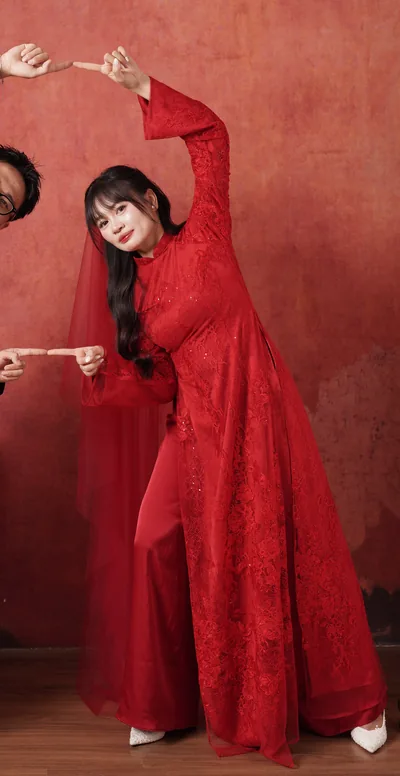
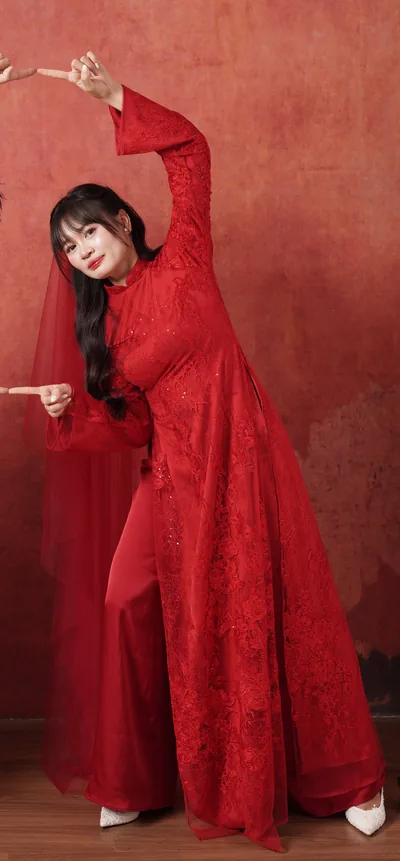
Puzzle with two opposite tabs: one between the raised hands and heads, one low
Tabs are now a list (puzzle.tabs) with their own height, direction and
size; the straight cut stays where the raised fingertips meet.

diff --git a/src/main.js b/src/main.js
@@ -153,23 +153,24 @@ function initHero() {
 /* ---------- Gallery + Puzzle ---------- */
 
 // Tai ghép nằm giữa mép mảnh. Mảnh càng cao (ratio = cao/rộng) thì tai càng ngắn theo tỉ lệ để không bị kéo dài.
-// Mảnh trái rộng gấp `left` lần mảnh phải, nên tai ghép tính lại theo bề ngang của nó.
-// Mảnh trái rộng gấp `left` lần mảnh phải; hai mảnh chồng nhau 0.18 bề ngang mảnh phải.
-// tab = 'right': mảnh trái có tai lồi sang phải. tab = 'left': mảnh phải có tai lồi sang trái.
-function puzzleClips(ratio, left = 1, tab = 'right', tabY = 0.5) {
+// Toạ độ "bảng" tính theo bề ngang mảnh phải: mảnh trái nằm ở [0, left], mảnh phải ở [offset, offset + 1],
+// đường cắt thẳng ở x = cut. Mỗi tai ghép { y, dir, size }: y = vị trí theo chiều cao mảnh (0..1),
+// dir = 'left' (mảnh phải lồi sang trái) hoặc 'right' (mảnh trái lồi sang phải), size = cỡ (1 = tai to cũ).
+function puzzleClips({ ratio, left, offset, cut, tabs }) {
   const k = 1 / ratio;
-  const y = v => (tabY + (v - 0.5) * k).toFixed(4); // tai ghép đặt ở tabY (tỉ lệ chiều cao mảnh)
-  const x = v => (1 - (1 - v) / left).toFixed(4); // toạ độ trong dải chồng nhau → toạ độ mảnh trái
-  const [slot, piece] =
-    tab === 'left'
-      ? [
-          `M0,0 H1 V${y(0.35)} C${x(0.92)},${y(0.27)} ${x(0.82)},${y(0.37)} ${x(0.82)},${y(0.5)} C${x(0.82)},${y(0.63)} ${x(0.92)},${y(0.73)} 1,${y(0.65)} V1 H0 Z`,
-          `M0.18,0 H1 V1 H0.18 V${y(0.65)} C0.1,${y(0.73)} 0,${y(0.63)} 0,${y(0.5)} C0,${y(0.37)} 0.1,${y(0.27)} 0.18,${y(0.35)} Z`,
-        ]
-      : [
-          `M0,0 H${x(0.82)} V${y(0.35)} C${x(0.9)},${y(0.27)} 1,${y(0.37)} 1,${y(0.5)} C1,${y(0.63)} ${x(0.9)},${y(0.73)} ${x(0.82)},${y(0.65)} V1 H0 Z`,
-          `M0,0 H1 V1 H0 V${y(0.65)} C0.08,${y(0.73)} 0.18,${y(0.63)} 0.18,${y(0.5)} C0.18,${y(0.37)} 0.08,${y(0.27)} 0,${y(0.35)} Z`,
-        ];
+  const f = n => n.toFixed(4);
+  const seam = mapX => {
+    let d = `M${f(mapX(cut))},0`;
+    for (const t of [...tabs].sort((a, b) => a.y - b.y)) {
+      const s = (t.dir === 'right' ? 1 : -1) * t.size;
+      const X = dx => f(mapX(cut + s * dx));
+      const Y = dy => f(t.y + dy * t.size * k);
+      d += ` L${X(0)},${Y(-0.15)} C${X(0.08)},${Y(-0.23)} ${X(0.18)},${Y(-0.13)} ${X(0.18)},${Y(0)} C${X(0.18)},${Y(0.13)} ${X(0.08)},${Y(0.23)} ${X(0)},${Y(0.15)}`;
+    }
+    return `${d} L${f(mapX(cut))},1`;
+  };
+  const slot = `${seam(x => x / left)} L0,1 L0,0 Z`;
+  const piece = `${seam(x => x - offset)} L1,1 L1,0 Z`;
   return `<clipPath id="pz-slot" clipPathUnits="objectBoundingBox"><path d="${slot}"/></clipPath>
         <clipPath id="pz-piece" clipPathUnits="objectBoundingBox"><path d="${piece}"/></clipPath>`;
 }
@@ -185,13 +186,13 @@ function galleryHtml() {
       </figure>`,
     )
     .join('');
-  const puzzle = `<div class="puzzle__wrap" style="--pr:${p.ratio};--pl:${p.left ?? 1}">
+  const puzzle = `<div class="puzzle__wrap" style="--pr:${p.ratio};--pl:${p.left};--po:${p.offset}">
       <p class="puzzle__title">${esc(p.title)}</p>
       <svg class="puzzle__defs" aria-hidden="true"><defs>
-        ${puzzleClips(p.ratio, p.left, p.tab, p.tabY)}
+        ${puzzleClips(p)}
       </defs></svg>
       <div class="puzzle__board">
-        <figure class="puzzle__slot" style="clip-path:url(#pz-slot)"><img src="${url(p.pieces[0].src)}" alt="${esc(p.pieces[0].alt)}" width="${Math.round(400 * (p.left ?? 1))}" height="${Math.round(400 * p.ratio)}" draggable="false"></figure>
+        <figure class="puzzle__slot" style="clip-path:url(#pz-slot)"><img src="${url(p.pieces[0].src)}" alt="${esc(p.pieces[0].alt)}" width="${Math.round(400 * p.left)}" height="${Math.round(400 * p.ratio)}" draggable="false"></figure>
         <div class="puzzle__piece" style="clip-path:url(#pz-piece);--fx:0.52;--fy:${(0.2 / p.ratio).toFixed(3)}" role="button" tabindex="0" aria-disabled="false"
           aria-label="${esc(p.pieces[1].alt)} — kéo hoặc dùng phím mũi tên để ghép vào mảnh bên trái"><img src="${url(p.pieces[1].src)}" alt="${esc(p.pieces[1].alt)}" width="400" height="${Math.round(400 * p.ratio)}" draggable="false"></div>
       </div>

diff --git a/src/config.js b/src/config.js
@@ -50,14 +50,18 @@ export const puzzle = {
   prompt: 'Kéo mảnh bên phải cho khớp vào mảnh bên trái',
   done: 'Khớp rồi! Thông tin lễ cưới mở ngay bên dưới nha.',
   locked: 'Ghép hai mảnh ảnh phía trên để mở phần này nha',
-  // Một tấm ảnh cắt đôi ở giữa hai người (scripts/prepare-photos.py in ra ba giá trị này).
-  // tab = mảnh phải có tai lồi sang trái ('left') hay mảnh trái có tai lồi sang phải ('right'),
-  // ratio = cao/rộng của mảnh phải, left = bề ngang mảnh trái so với mảnh phải.
-  tab: 'left',
-  ratio: 1.939,
-  left: 0.942,
-  // Vị trí tai ghép theo chiều cao mảnh (0 = trên cùng, 1 = dưới cùng): đặt ở khoảng nền trống giữa hai người.
-  tabY: 0.6,
+  // Một tấm ảnh cắt đôi ở giữa hai người. scripts/prepare-photos.py in ra ratio, left, offset, cut
+  // (tính theo bề ngang mảnh phải: chiều cao, bề ngang mảnh trái, mép trái mảnh phải, vị trí đường cắt).
+  ratio: 2.152,
+  left: 1.136,
+  offset: 0.956,
+  cut: 1.046,
+  // Tai ghép: y = vị trí theo chiều cao mảnh (0 = trên cùng, 1 = dưới cùng), dir = hướng lồi,
+  // size = cỡ (0.18 × size phải ≤ TAB_DEPTH trong scripts/prepare-photos.py).
+  tabs: [
+    { y: 0.164, dir: 'right', size: 0.5 }, // giữa tay trên cao và đầu hai người
+    { y: 0.74, dir: 'left', size: 0.5 }, // nền trống phía dưới, giữa áo chú rể và voan cô dâu
+  ],
   pieces: [
     { src: 'photos/puzzle-left.webp', alt: 'Chú rể' },
     { src: 'photos/puzzle-right.webp', alt: 'Cô dâu' },

diff --git a/src/style.css b/src/style.css
@@ -1716,6 +1716,7 @@ a {
 .puzzle__wrap {
   --pr: 1;
   --pl: 1; /* bề ngang mảnh trái so với mảnh phải */
+  --po: 0.82; /* mép trái mảnh phải khi ghép xong */
   /* --pr: cao/rộng của mỗi mảnh (puzzle.ratio). Mảnh dọc thì thu hẹp lại để không quá cao. */
   --pw: calc(clamp(112px, 34vw, 240px) * min(1, 1.6 / var(--pr)));
   align-items: center;
@@ -1735,7 +1736,7 @@ a {
   position: absolute;
 }
 .puzzle__board {
-  width: calc(var(--pw) * (var(--pl) + 1 - 0.18 + 0.52));
+  width: calc(var(--pw) * (var(--po) + 1 + 0.52));
   height: calc(var(--pw) * (var(--pr) * 1.12 + 0.12));
   position: relative;
 }
@@ -1763,7 +1764,7 @@ a {
   aspect-ratio: var(--pl) / var(--pr);
 }
 .puzzle__piece {
-  left: calc(var(--pw) * (var(--pl) - 0.18));
+  left: calc(var(--pw) * var(--po));
   translate: calc(var(--fx, 0) * 100%) calc(var(--fy, 0) * 100%);
   cursor: grab;
   touch-action: none;

diff --git a/scripts/prepare-photos.py b/scripts/prepare-photos.py
@@ -47,32 +47,25 @@ STICKERS = []
 
 # Trò ghép hình: một tấm ảnh chụp hai người, cắt đôi ở chỗ giữa hai người.
 # (nguồn, vị trí đường cắt 0..1, mép trái, mép phải, mép trên, mép dưới — đều tính theo tỉ lệ ảnh)
-# Mảnh trái cố định, mảnh phải kéo vào. Tai ghép rộng 0.18 bề ngang mảnh phải.
-# Hai mảnh có thể rộng khác nhau để đường cắt nằm đúng chỗ mình muốn mà không phải cắt bớt người bên trái.
-# Chạy xong, chép ba giá trị tab, ratio và left in ra vào puzzle trong src/config.js.
+# Mảnh trái cố định, mảnh phải kéo vào. Tai ghép (khai báo ở puzzle.tabs trong src/config.js) lồi sang trái
+# hoặc phải tối đa TAB_DEPTH bề ngang mảnh phải, nên mỗi mảnh lấy dư ra phía đường cắt đúng chừng đó.
+# Chạy xong, chép các số ratio, left, offset, cut in ra vào puzzle trong src/config.js.
 PUZZLE = ('anh-1.JPG', 0.532, 0.0, 0.995, 0.21, 0.94)
 PUZZLE_W = 400  # bề ngang mảnh phải (px)
-# Tai ghép nằm ở mảnh nào: 'left' = mảnh phải có tai lồi sang trái, 'right' = mảnh trái có tai lồi sang phải.
-# Đường cắt thẳng luôn ở vị trí `cut`, tai ghép lấn sang phía bên kia.
-PUZZLE_TAB = 'left'
+TAB_DEPTH = 0.09  # = 0.18 × size lớn nhất của các tai ghép
 
 
 def puzzle_pieces(img, cut, left, right, top, bottom):
     x_cut, x0, x1 = cut * img.width, left * img.width, right * img.width
     y0, y1 = top * img.height, bottom * img.height
-    if PUZZLE_TAB == 'right':  # tai ở mảnh trái, lồi sang phải
-        w = x1 - x_cut  # mảnh phải
-        wl = x_cut + 0.18 * w - x0  # mảnh trái, gồm cả tai ghép
-        rx0 = x_cut
-    else:  # tai ở mảnh phải, lồi sang trái
-        w = (x1 - x_cut) / 0.82  # mảnh phải, gồm cả tai ghép
-        wl = x_cut - x0
-        rx0 = x_cut - 0.18 * w
-    ratio, lw = (y1 - y0) / w, wl / w
+    w = (x1 - x_cut) / (1 - TAB_DEPTH)  # mảnh phải, gồm phần dư cho tai ghép lồi sang trái
+    d = TAB_DEPTH * w
+    lx1, rx0 = x_cut + d, x_cut - d
+    ratio, lw, off, c = (y1 - y0) / w, (lx1 - x0) / w, (rx0 - x0) / w, (x_cut - x0) / w
     h = round(PUZZLE_W * ratio)
-    a = img.crop((round(x0), round(y0), round(x0 + wl), round(y1))).resize((round(PUZZLE_W * lw), h), Image.LANCZOS)
+    a = img.crop((round(x0), round(y0), round(lx1), round(y1))).resize((round(PUZZLE_W * lw), h), Image.LANCZOS)
     b = img.crop((round(rx0), round(y0), round(x1), round(y1))).resize((PUZZLE_W, h), Image.LANCZOS)
-    print(f"puzzle: tab: '{PUZZLE_TAB}', ratio: {ratio:.3f}, left: {lw:.3f}")
+    print(f'puzzle: ratio: {ratio:.3f}, left: {lw:.3f}, offset: {off:.3f}, cut: {c:.3f}')
     return a, b
 
 
